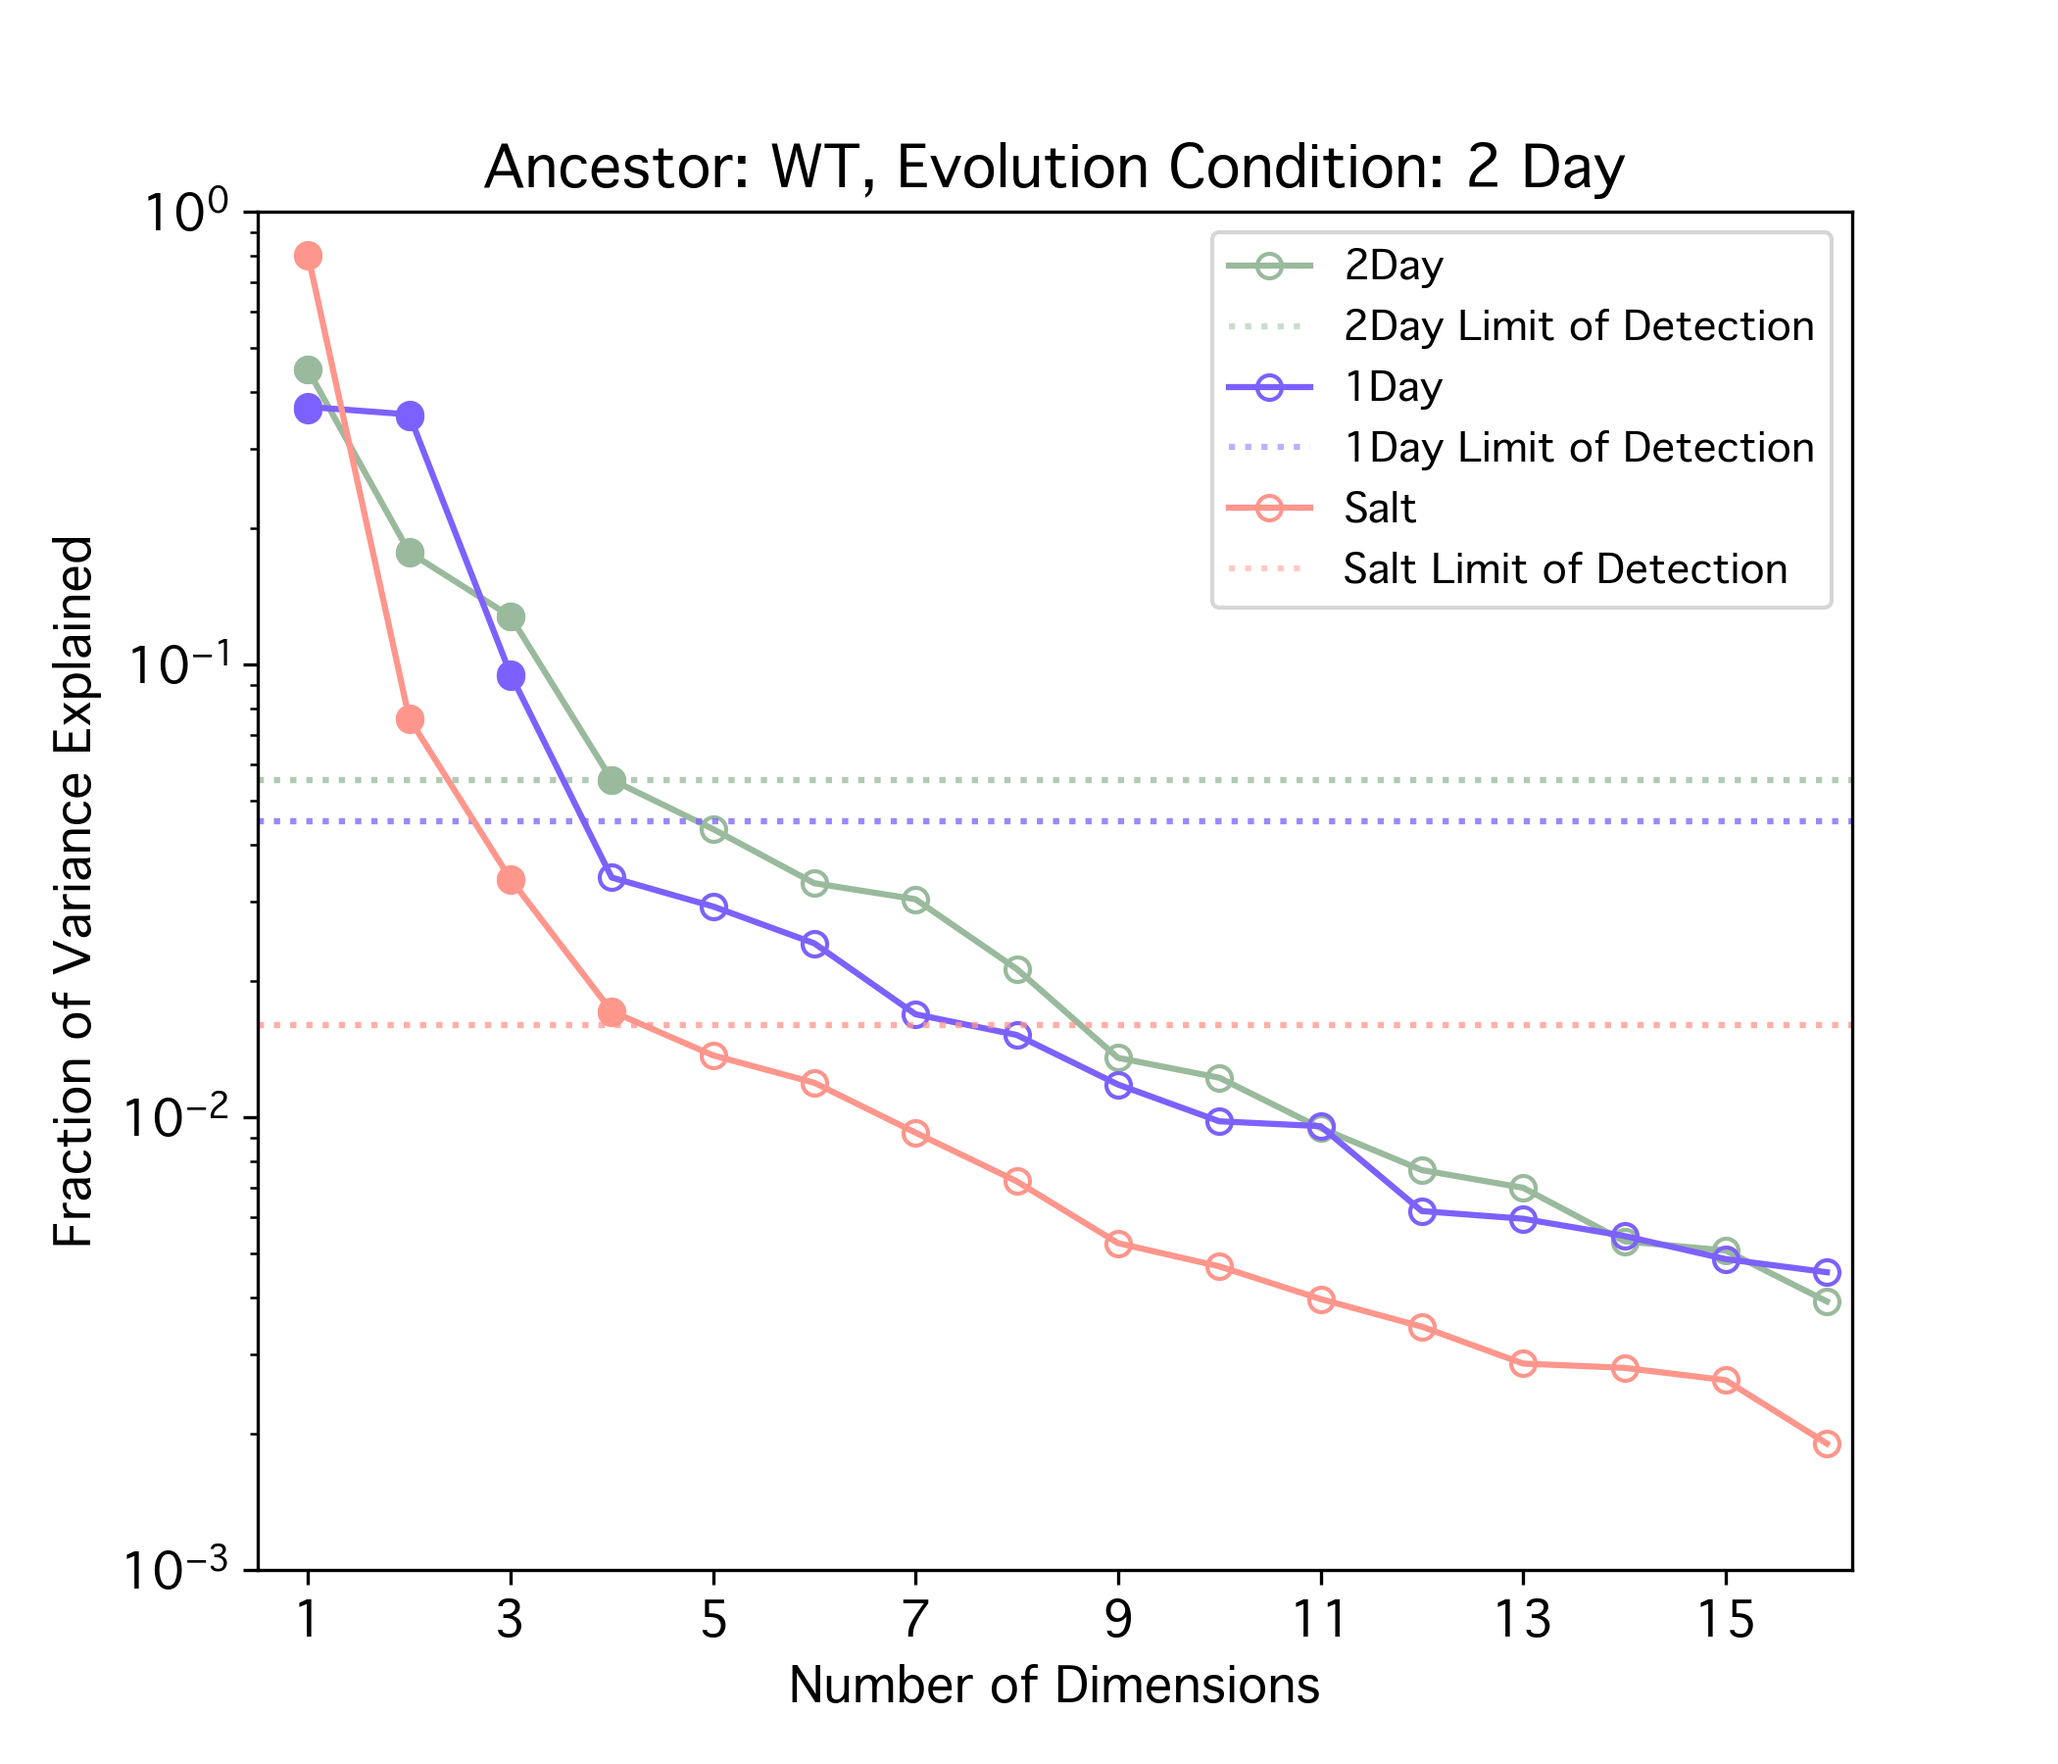
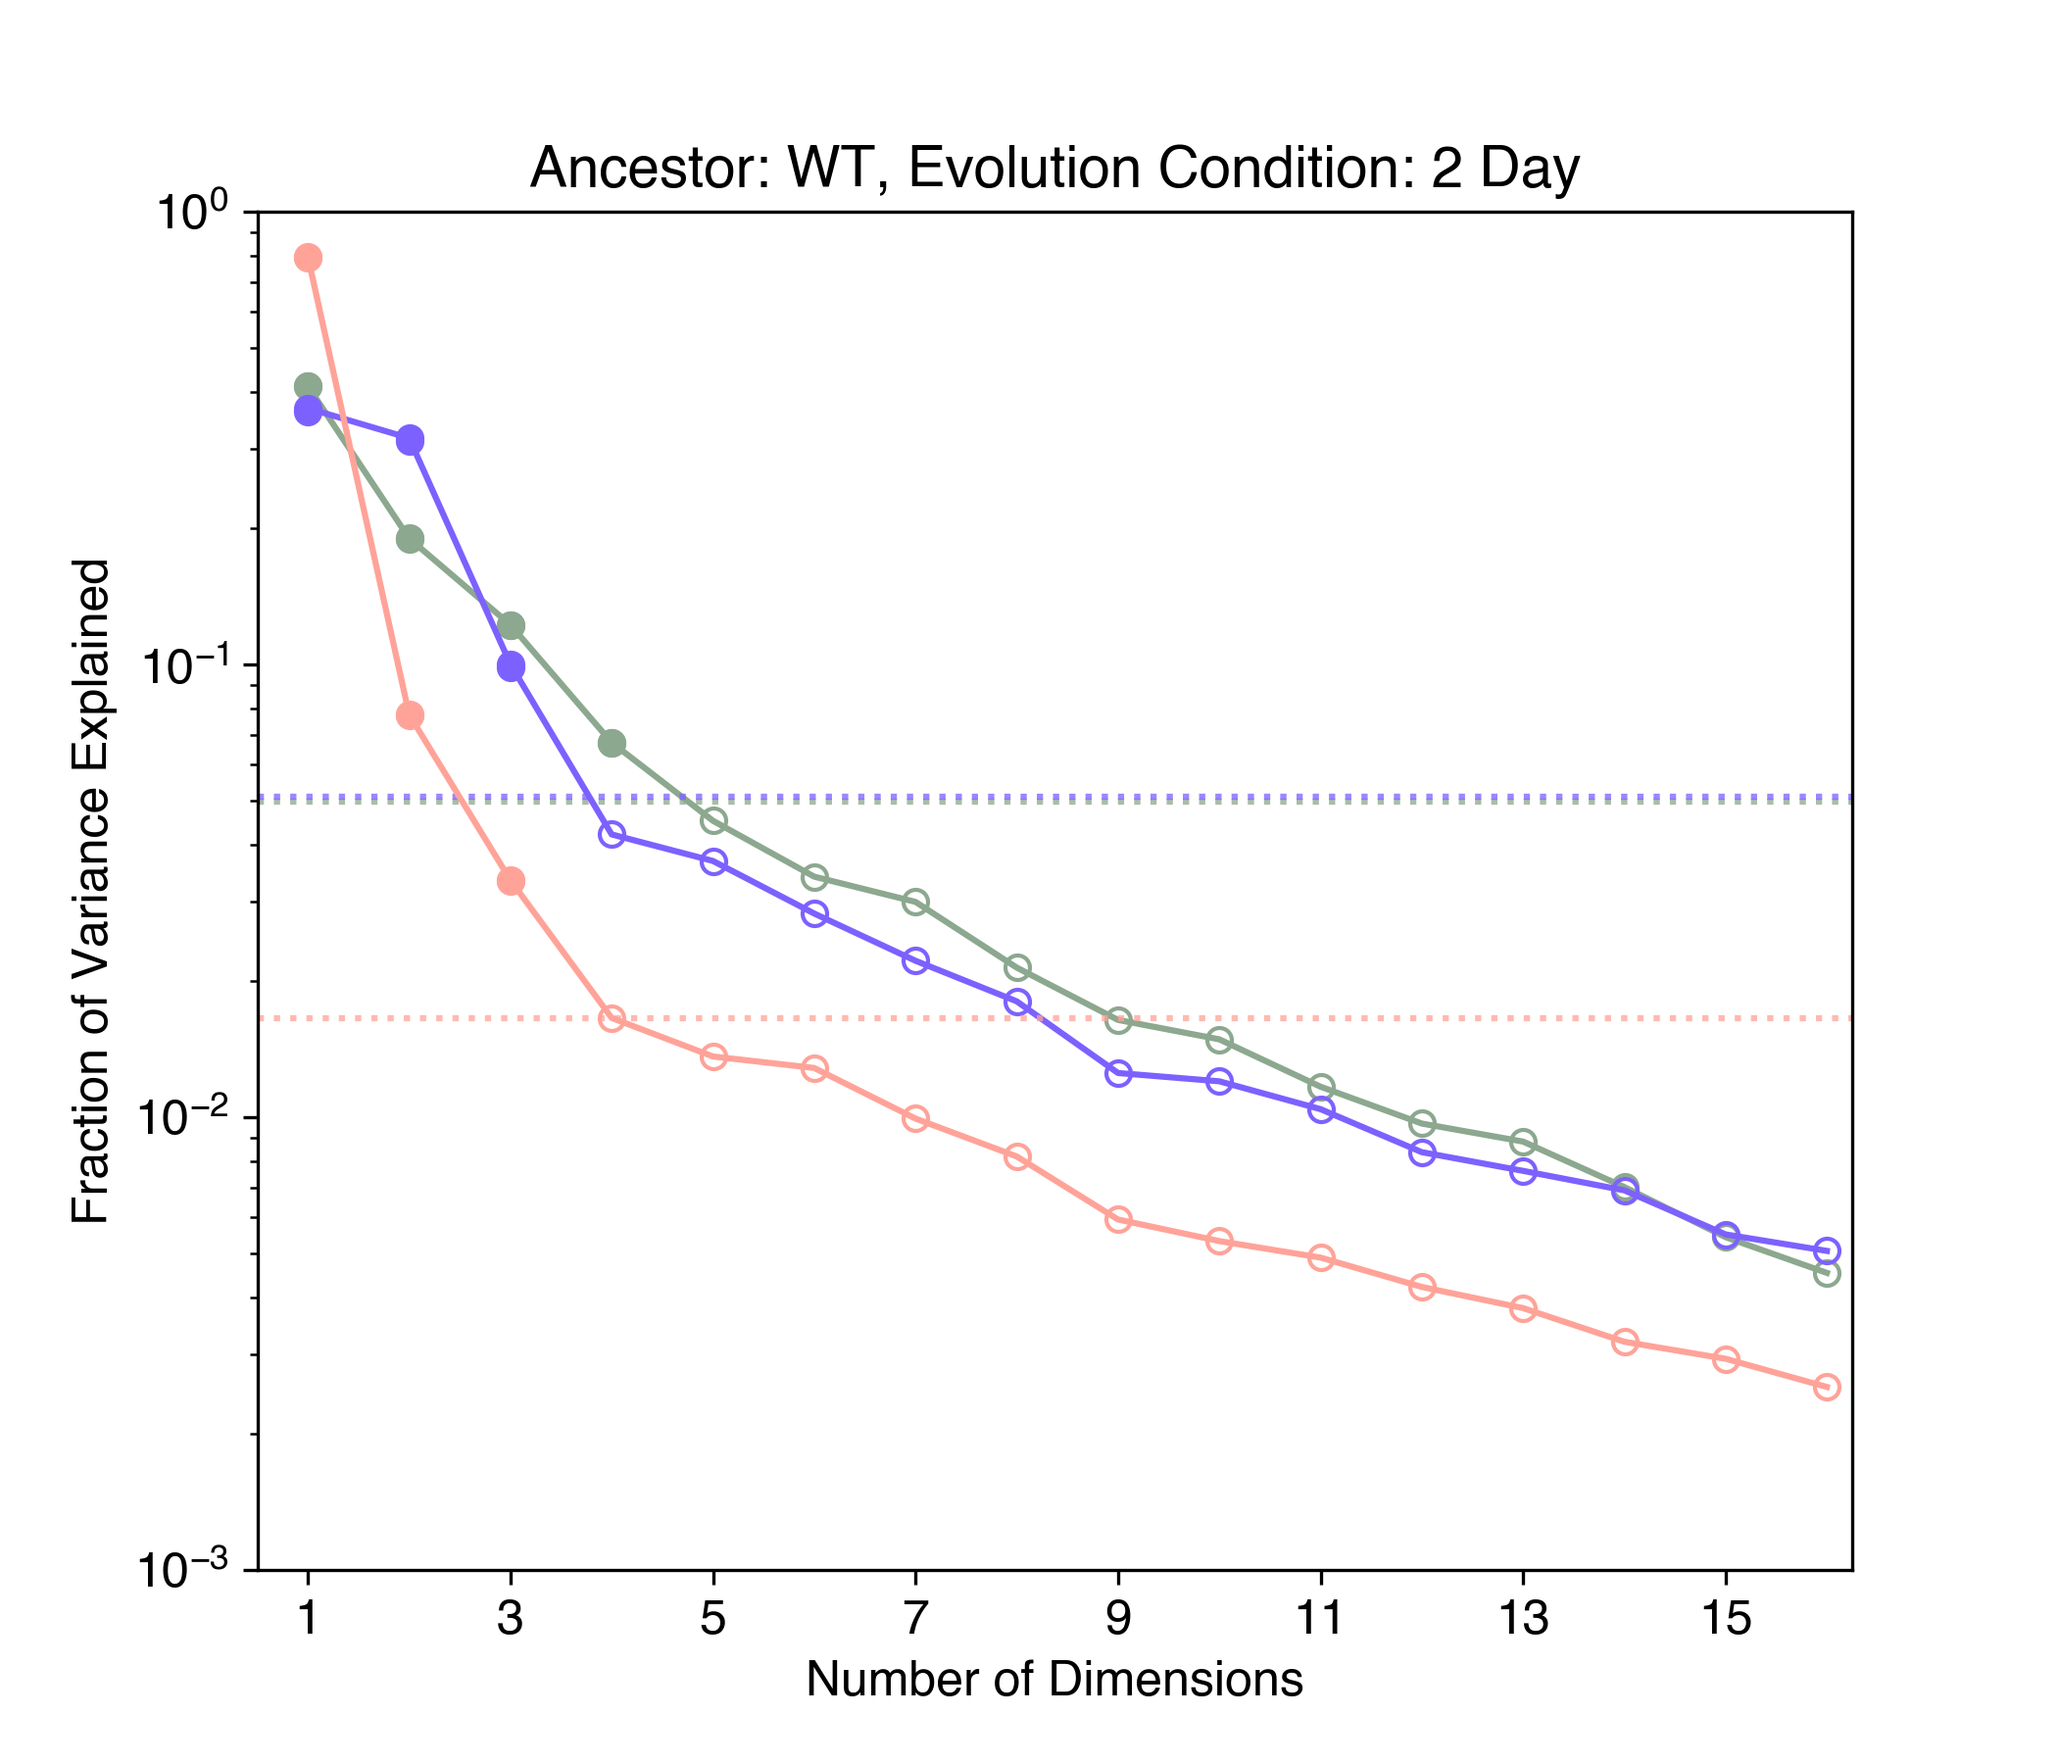
figure 5 work

diff --git a/fig4c.py b/fig4c.py
@@ -7,6 +7,8 @@ from scipy import stats
 import os
 import sys
 import seaborn as sns
+from matplotlib.lines import Line2D
+
 sns.set_style("darkgrid")
 
 plt.rcParams['font.family'] = 'Helvetica'
@@ -18,21 +20,20 @@ environment_dict['Salt'] = [env for env in environment_dict['Salt'] if env != 'B
 bc_counts, fitness_df, grants_df_with_barcode_df, full_df = create_full_fitness_dataframe()
 for metric in ['ind_detection_limit', 'ind_entropy', 'overall_detection_limit', 'overall_entropy']:
     directory = f'delta_dimensionality_summary_{metric}'
-    these_muts = mutant_dict['Original Training'] + mutant_dict['Original Testing']
-
     n_folds = 1000
     this_fitness = organized_perturbation_fitness_df
     dimensionality_results_evo1D = pd.DataFrame(columns = environment_dict.keys(), index = mutant_dict.keys())
     dimensionality_results_evo2D = pd.DataFrame(columns =  environment_dict.keys(), index = mutant_dict.keys())
-
-
 
     for mutant_list in mutant_dict.keys():
         print(f'Starting {mutant_list}')
         if not 'anc' in mutant_list:
             continue
         evo1D = [mut for mut in mutant_dict[mutant_list] if mut in mutant_dict['Evo1D']]
+        print(f'length of evo1D for {mutant_list} : {len(evo1D)}')
         evo2D = [mut for mut in mutant_dict[mutant_list] if mut in mutant_dict['Evo2D']]
+        print(f'length of evo2D for {mutant_list} : {len(evo2D)}')
+
         overall_detection_limit=0
 
         for evo_cond in ['Evo1D', 'Evo2D']:
@@ -115,38 +116,81 @@ for metric in ['ind_detection_limit', 'ind_entropy', 'overall_detection_limit', 
     gene_colors.update(ancestor_colors)
     # Set the figure size
     plt.figure(figsize=(7, 6), dpi=300)
-    for g,genotype in enumerate(genotypes):
-        if genotype in (dimensionality_results_evo1D.index):
-            for env in environments: 
-                if env == evo_cond:
-                    y1 = dimensionality_results_evo1D.loc[genotype, '2Day']
-                    y2 = dimensionality_results_evo1D.loc[genotype, 'Salt']
-                    x= dimensionality_results_evo1D.loc[genotype, env]
-                    plt.scatter(x, y1, color = gene_colors[genotype], label = genotype, s = 100, alpha = 0.75)
-                    plt.scatter(x, y2, color = gene_colors[genotype],  label = genotype, s = 100, alpha = 0.75)
-
     for g, genotype in enumerate(dimensionality_results_evo2D.index):
         if genotype in dimensionality_results_evo2D.index:
+            print(f'genotype {genotype} is in 2 Day')
+
             for env in dimensionality_results_evo2D.keys():
                 if env == '2Day':
                     y1 = dimensionality_results_evo2D.loc[genotype, '1Day']
                     y2 = dimensionality_results_evo2D.loc[genotype, 'Salt']
                     x = dimensionality_results_evo2D.loc[genotype, env]
 
-                    plt.scatter(x, y1, color = gene_colors[genotype], label = genotype,  s = 100,  alpha=0.75)
-                    plt.scatter(x, y2, color = gene_colors[genotype],  label = genotype, s = 100, alpha=0.75)
+                    plt.scatter(x, y1, color = gene_colors[genotype], label = genotype,  s = 100,  alpha=0.75, marker = 's')
+                    plt.scatter(x, y2, color = gene_colors[genotype],  label = genotype, s = 100, alpha=0.75, marker='s')
     
+
+    for g,genotype in enumerate(genotypes):
+        if genotype in (dimensionality_results_evo1D.index):
+            print(f'genotype {genotype} is in 1 Day')
+            for env in environments: 
+                print(env)
+                if env == '1Day':
+                    y1 = dimensionality_results_evo1D.loc[genotype, '2Day']
+                    y2 = dimensionality_results_evo1D.loc[genotype, 'Salt']
+                    x= dimensionality_results_evo1D.loc[genotype, env]
+                    plt.scatter(x, y1, color = gene_colors[genotype], label = genotype, s = 100, alpha = 0.75, marker = 'D')
+                    plt.scatter(x, y2, color = gene_colors[genotype],  label = genotype, s = 100, alpha = 0.75, marker = 'D')
+
 
     min_dim = np.min([np.min(dimensionality_results_evo1D['2Day']), np.min(dimensionality_results_evo1D['Salt']), np.min(dimensionality_results_evo1D['1Day'])])
     min_dim = np.min([min_dim, np.min(dimensionality_results_evo2D['2Day']), np.min(dimensionality_results_evo2D['Salt']), np.min(dimensionality_results_evo2D['1Day'])])
     max_dim = np.max([np.max(dimensionality_results_evo1D['2Day']), np.max(dimensionality_results_evo1D['Salt']), np.max(dimensionality_results_evo1D['1Day'])])
     max_dim = np.max([max_dim, np.max(dimensionality_results_evo2D['2Day']), np.max(dimensionality_results_evo2D['Salt']), np.max(dimensionality_results_evo2D['1Day'])])
     plt.plot([min_dim-0.5, max_dim+0.5], [min_dim-0.5, max_dim+0.5], 'k--')
-    # add legend with just one copy of each genotype
+    
+
+    # LEGEND
+    # Get and clean existing handles/labels
     handles, labels = plt.gca().get_legend_handles_labels()
-    by_label = dict(zip(labels, handles))
-    plt.legend(by_label.values(), by_label.keys(), title = 'Genotypes')
-    plt.xlabel('Evolution Base Dimensionality', fontsize = 16)
+
+    # Process labels and deduplicate
+    seen = set()
+    unique_handles = []
+    unique_labels = []
+    for h, lbl in zip(handles, labels):
+        clean_label = lbl.replace("anc:", "")
+        if clean_label not in seen:
+            seen.add(clean_label)
+            unique_handles.append(h)
+            unique_labels.append(clean_label)
+
+    # Create custom marker legend elements
+    custom_handles = [
+        Line2D([], [], color='gray', marker='s', linestyle='None', 
+            markersize=10, markerfacecolor='None', label='Evo2D'),
+        Line2D([], [], color='gray', marker='D', linestyle='None',
+            markersize=10, markerfacecolor='None', label='Evo1D')
+    ]
+    custom_labels = [h.get_label() for h in custom_handles]
+
+    # Create main legend (top-right corner)
+    leg1 = plt.legend(unique_handles, unique_labels, title='Ancestor',
+                    loc='upper left',
+                    frameon=True,
+                    framealpha=0.9)  # Slightly transparent background
+
+    # Create secondary legend (bottom-right corner)
+    leg2 = plt.legend(custom_handles, custom_labels, title='Evolution Base',
+                    loc='lower left',
+                    frameon=True,
+                    framealpha=0.9)
+
+    # Add both legends to the plot
+    plt.gca().add_artist(leg1)
+    plt.gca().add_artist(leg2)
+    
+    plt.xlabel('Evolution Base Dimensionality', fontsize=16)
     plt.ylabel('Non-Evolution Base Dimensionality', fontsize=16)
     plt.xlim(min_dim-0.5, max_dim+0.5)
     plt.ylim(min_dim-0.5, max_dim+0.5)

diff --git a/fig3.py b/fig3.py
@@ -226,10 +226,10 @@ rep1_vals, rep2_vals, rep1_errs, rep2_errs = get_rep1_vs_rep2_points(barcode, al
 ## PLOt the figure 
 
 # Create the main figure with a larger size
-fig = plt.figure(figsize=(16, 8))
+fig = plt.figure(figsize=(18, 9))
 
 # Create two subfigures with adjusted widths
-subfigs = fig.subfigures(1, 2, wspace=0.03, width_ratios=[2.5, 1])
+subfigs = fig.subfigures(1, 2, wspace=0.0, width_ratios=[2.9, 1])
 
 # Left subfigure (scatter plots)
 axsLeft = subfigs[0].subplots(2, 2, sharey='row', sharex='col')
@@ -285,7 +285,8 @@ axsLeft[0,0].set_xlim(-0.5,1.1)
 axsLeft[0,0].set_ylim(-0.5,1.1)
 
 
-unique_perturbations = pairplot_df[['perturbation', 'color']].drop_duplicates()
+# unique_perturbations = pairplot_df[['perturbation', 'color']].drop_duplicates()
+unique_perturbations = pairplot_df[['perturbation', 'color']].drop_duplicates().sort_values('perturbation') 
 # Start with "Replicate" gray dot
 
 # Then add one for each perturbation
@@ -360,26 +361,30 @@ for i, (data, label, color) in enumerate(datasets):
     ax = axsRight[i]
     
     # Plot CDF
-    sns.ecdfplot(np.array(data), color=color, label=label, ax=ax)
-    sns.ecdfplot(np.array(rep_rep), color='gray', label=r'$\delta X_{Rep1}\mathbf{-}\delta X_{Rep2}$', ax=ax, alpha=0.75)
+    # sns.ecdfplot(np.array(data), color=color, label=label, ax=ax)
+    # sns.ecdfplot(np.array(rep_rep), color='gray', label=r'$\delta X_{Rep1}\mathbf{-}\delta X_{Rep2}$', ax=ax, alpha=0.75)
+    sns.kdeplot(np.array(rep_rep), color='gray', label=r'$\delta X_{Rep1}\mathbf{-}\delta X_{Rep2}$', ax=ax, alpha=0.25, fill=True)
 
-    ax.set_ylabel('Percent, %', fontsize=12)
-    ax.set_yticks(np.linspace(0,1,5))
-    ax.set_yticklabels([0,25,50,75,100], fontsize=12)
+    sns.kdeplot(np.array(data), color=color, label=label, ax=ax, fill=True)
+
+    ax.set_ylabel('Density', fontsize=12)
+    # ax.set_yticks(np.linspace(0,1,5))
+    # ax.set_yticklabels([0,25,50,75,100], fontsize=12)
 
 
         # Set labels and legend
     legend_right = ax.legend(fontsize=10, loc='upper left')
         # Adjust legend line length
     ax.set_xlim(-1.5, 1.5)
-    ax.set_ylim(0, 1)
+    # ax.set_ylim(0, 1)
+    ax.set_ylim(0,2.6)
 
     # Hide x-axis for all but the bottom subplot
     if i < 2:
         ax.set_xticklabels([])
         ax.set_xlabel('')
     else:
-        ax.set_xlabel('Differential perturbation fitness effect,\n' + r'$\delta X_{p}^{Base 1}\mathbf{-}\delta X_{p}^{Base 2}$', 
+        ax.set_xlabel('Differences in perturbation fitness effect,\n' + r'$\delta X_{p}^{Base 1}\mathbf{-}\delta X_{p}^{Base 2}$', 
                       fontsize=12, labelpad=10)
         ax.set_xticklabels(np.linspace(-1.5, 1.5, 7), fontsize = 12)
 
@@ -438,6 +443,7 @@ axsLeft[1, 1].set_xlabel(r'Pert. fitness effect in 2 Day base, $\delta X_{p}^{2D
 
 # Add titles to subfigures
 subfigs[0].suptitle('Pairwise Comparisons of Perturbation Fitness Effects', fontsize=16)
-subfigs[1].suptitle('CDF of differential perturbation effects', fontsize=16)
+subfigs[1].suptitle('Distribution of differences\n in perturbation effects', fontsize=16)
 
-plt.savefig('plots/fig3.png', dpi=300)
+plt.savefig('plots/fig3_pdf.png', dpi=300)
+# plt.show()

diff --git a/fig5.py b/fig5.py
@@ -6,6 +6,7 @@ from scipy.linalg import lstsq
 from sklearn.metrics import r2_score
 import seaborn as sns
 from scipy.stats import spearmanr
+from matplotlib.lines import Line2D
 
 
 bc_counts, fitness_df, grants_df_with_barcode_df, full_df = create_full_fitness_dataframe()
@@ -97,7 +98,7 @@ def variance_explained_in_and_out(focal_base, target_base, k):
     return results
 
 
-k = 8
+k = 7
 
 mutant_names = ['all', 'original', 'anc: IRA1_NON', 'anc: IRA1_MIS', 'anc: GPB2', 'anc: TOR1', 'anc: CYR1']
 
@@ -200,9 +201,17 @@ for mut in mutant_names[:1]:
             plt.fill_between(x_vals, bottom_curve, top_curve, color=colors[i], alpha=0.3)
   
         # Add labels and customize
-        plt.ylabel('Fraction of Variance Explained', fontsize=14)
-        plt.xticks(x_positions, [f'Target 1: {target_base1}', f'Focal: {focal_base}',f'Target 2: {target_base2}'], fontsize=12)
+        plt.xticks([]) #, [f'Target 1: {target_base1}', f'Focal: {focal_base}',f'Target 2: {target_base2}'], fontsize=12)
         plt.ylim(0, 1)
+
+        plt.yticks([0,.2,.4,.6, .8, 1],[0,.2,.4,.6, .8, 1], fontsize = 14)
+        plt.ylabel('Fraction of Variance Explained', fontsize=16)
+
+        # Remove upper and right spines
+        plt.gca().spines['top'].set_visible(False)
+        plt.gca().spines['right'].set_visible(False)
+        plt.gca().spines['bottom'].set_visible(False)
+
 
         # Add titles and adjust layout
         plt.tight_layout()
@@ -214,5 +223,26 @@ for mut in mutant_names[:1]:
             plt.savefig(f'plots/fig5_c_1day.png')
         # plt.show()
         plt.close()
+
+
+# Assuming you have 3 components
+colors = sns.color_palette('pastel', k) + ['crimson']+['lightgray']
+
+labels = [f'k = {i+1}' for i in range(k)] + ['Missing Variance', 'Noise and non-linearities']
+
+# Create a new figure for the standalone legend
+legend_fig = plt.figure(figsize=(3, 2))
+
+# Create line objects for the legend
+legend_lines = [Line2D([0], [0], color=colors[i], lw=4) for i in range(len(colors))]
+
+# Add a legend to the legend figure
+legend = plt.legend(legend_lines, labels, frameon=False ,ncol=3, loc='center', fontsize=12)
+
+# Remove axes for clarity
+plt.axis('off')
+
+# Save the legend as a separate file
+plt.savefig('plots/fig5_legend.png', bbox_inches='tight', dpi=300)
 
 

diff --git a/fig4a.py b/fig4a.py
@@ -20,8 +20,9 @@ np.random.seed(100)
 organized_perturbation_fitness_df = create_delta_fitness_matrix(batches, fitness_df, environment_dict)
 this_fitness = organized_perturbation_fitness_df
 
-these_mutants = mutant_dict['Original Training'] + mutant_dict['Original Testing']
-
+# these_mutants = mutant_dict['Original Training'] + mutant_dict['Original Testing']
+these_mutants = [mut for mut in mutant_dict['Evo2D'] if mut in mutant_dict['anc: WT']]
+print(len(these_mutants))
 stderr_threshold = 0.3
 std_error_matrix = this_fitness.loc[these_mutants, [col.replace('fitness', 'stderror') for col in all_conds]]
 mutants_to_cull = std_error_matrix[std_error_matrix > stderr_threshold].dropna(how='all').index
